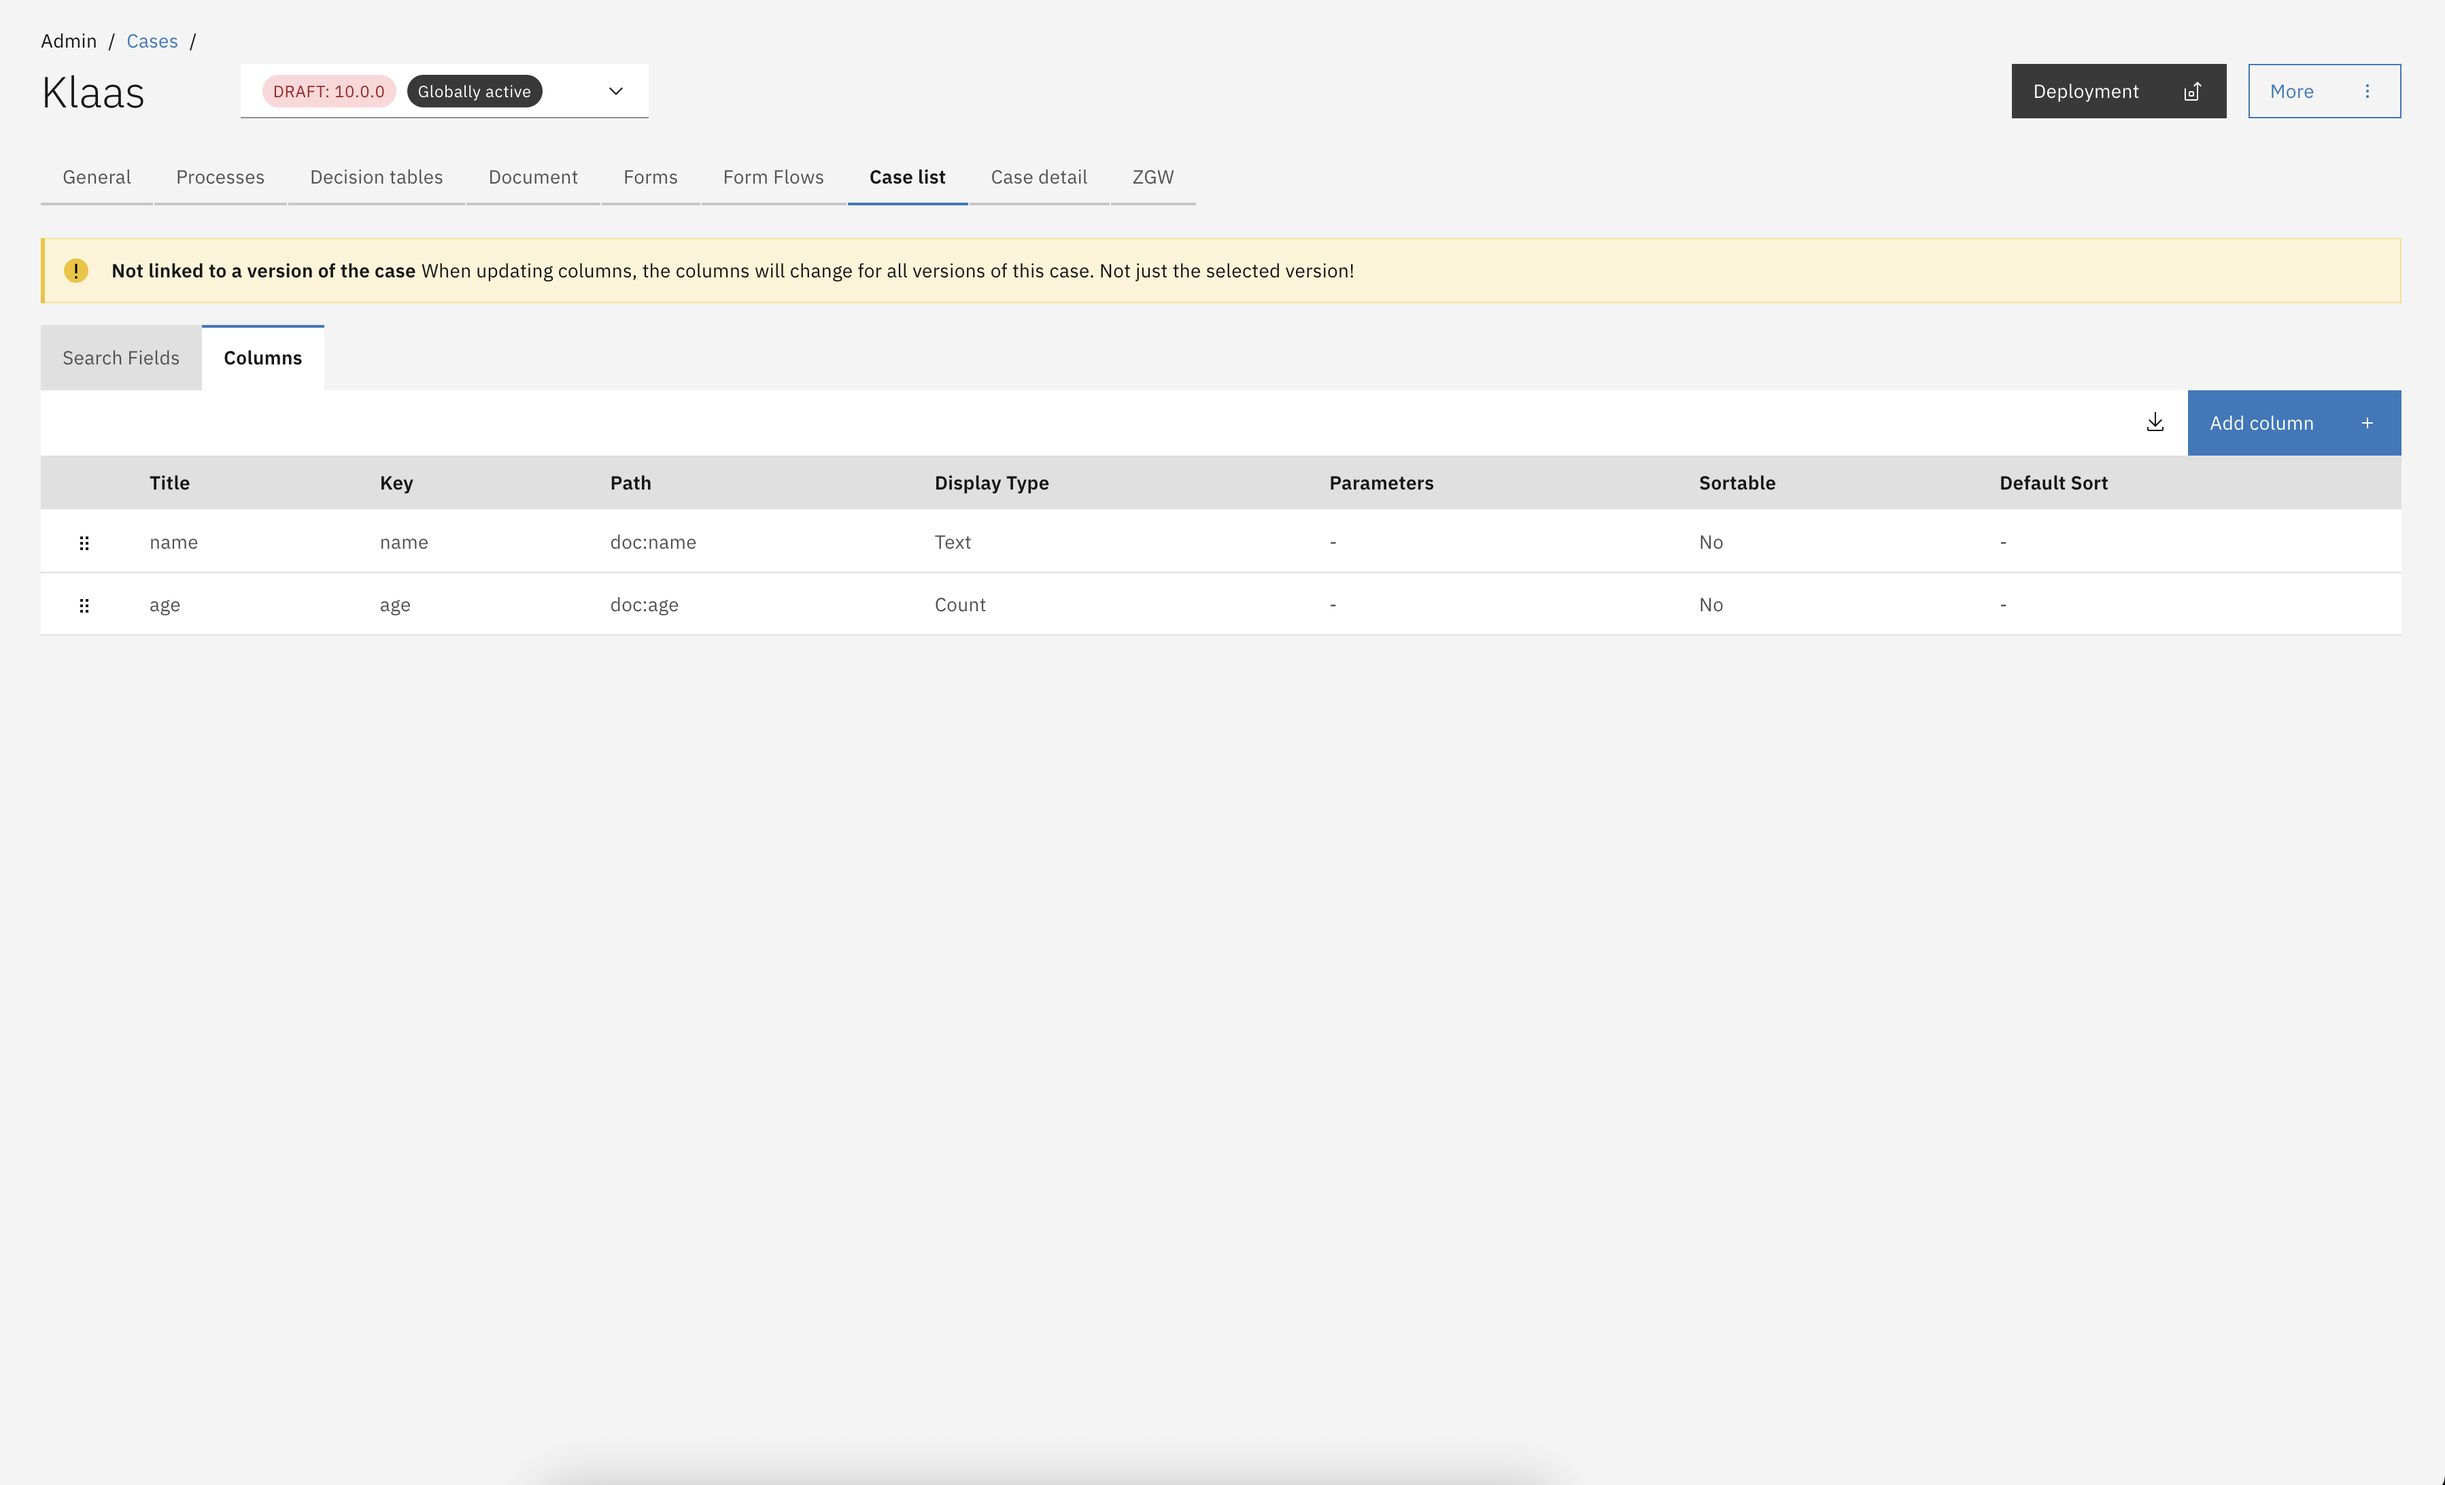
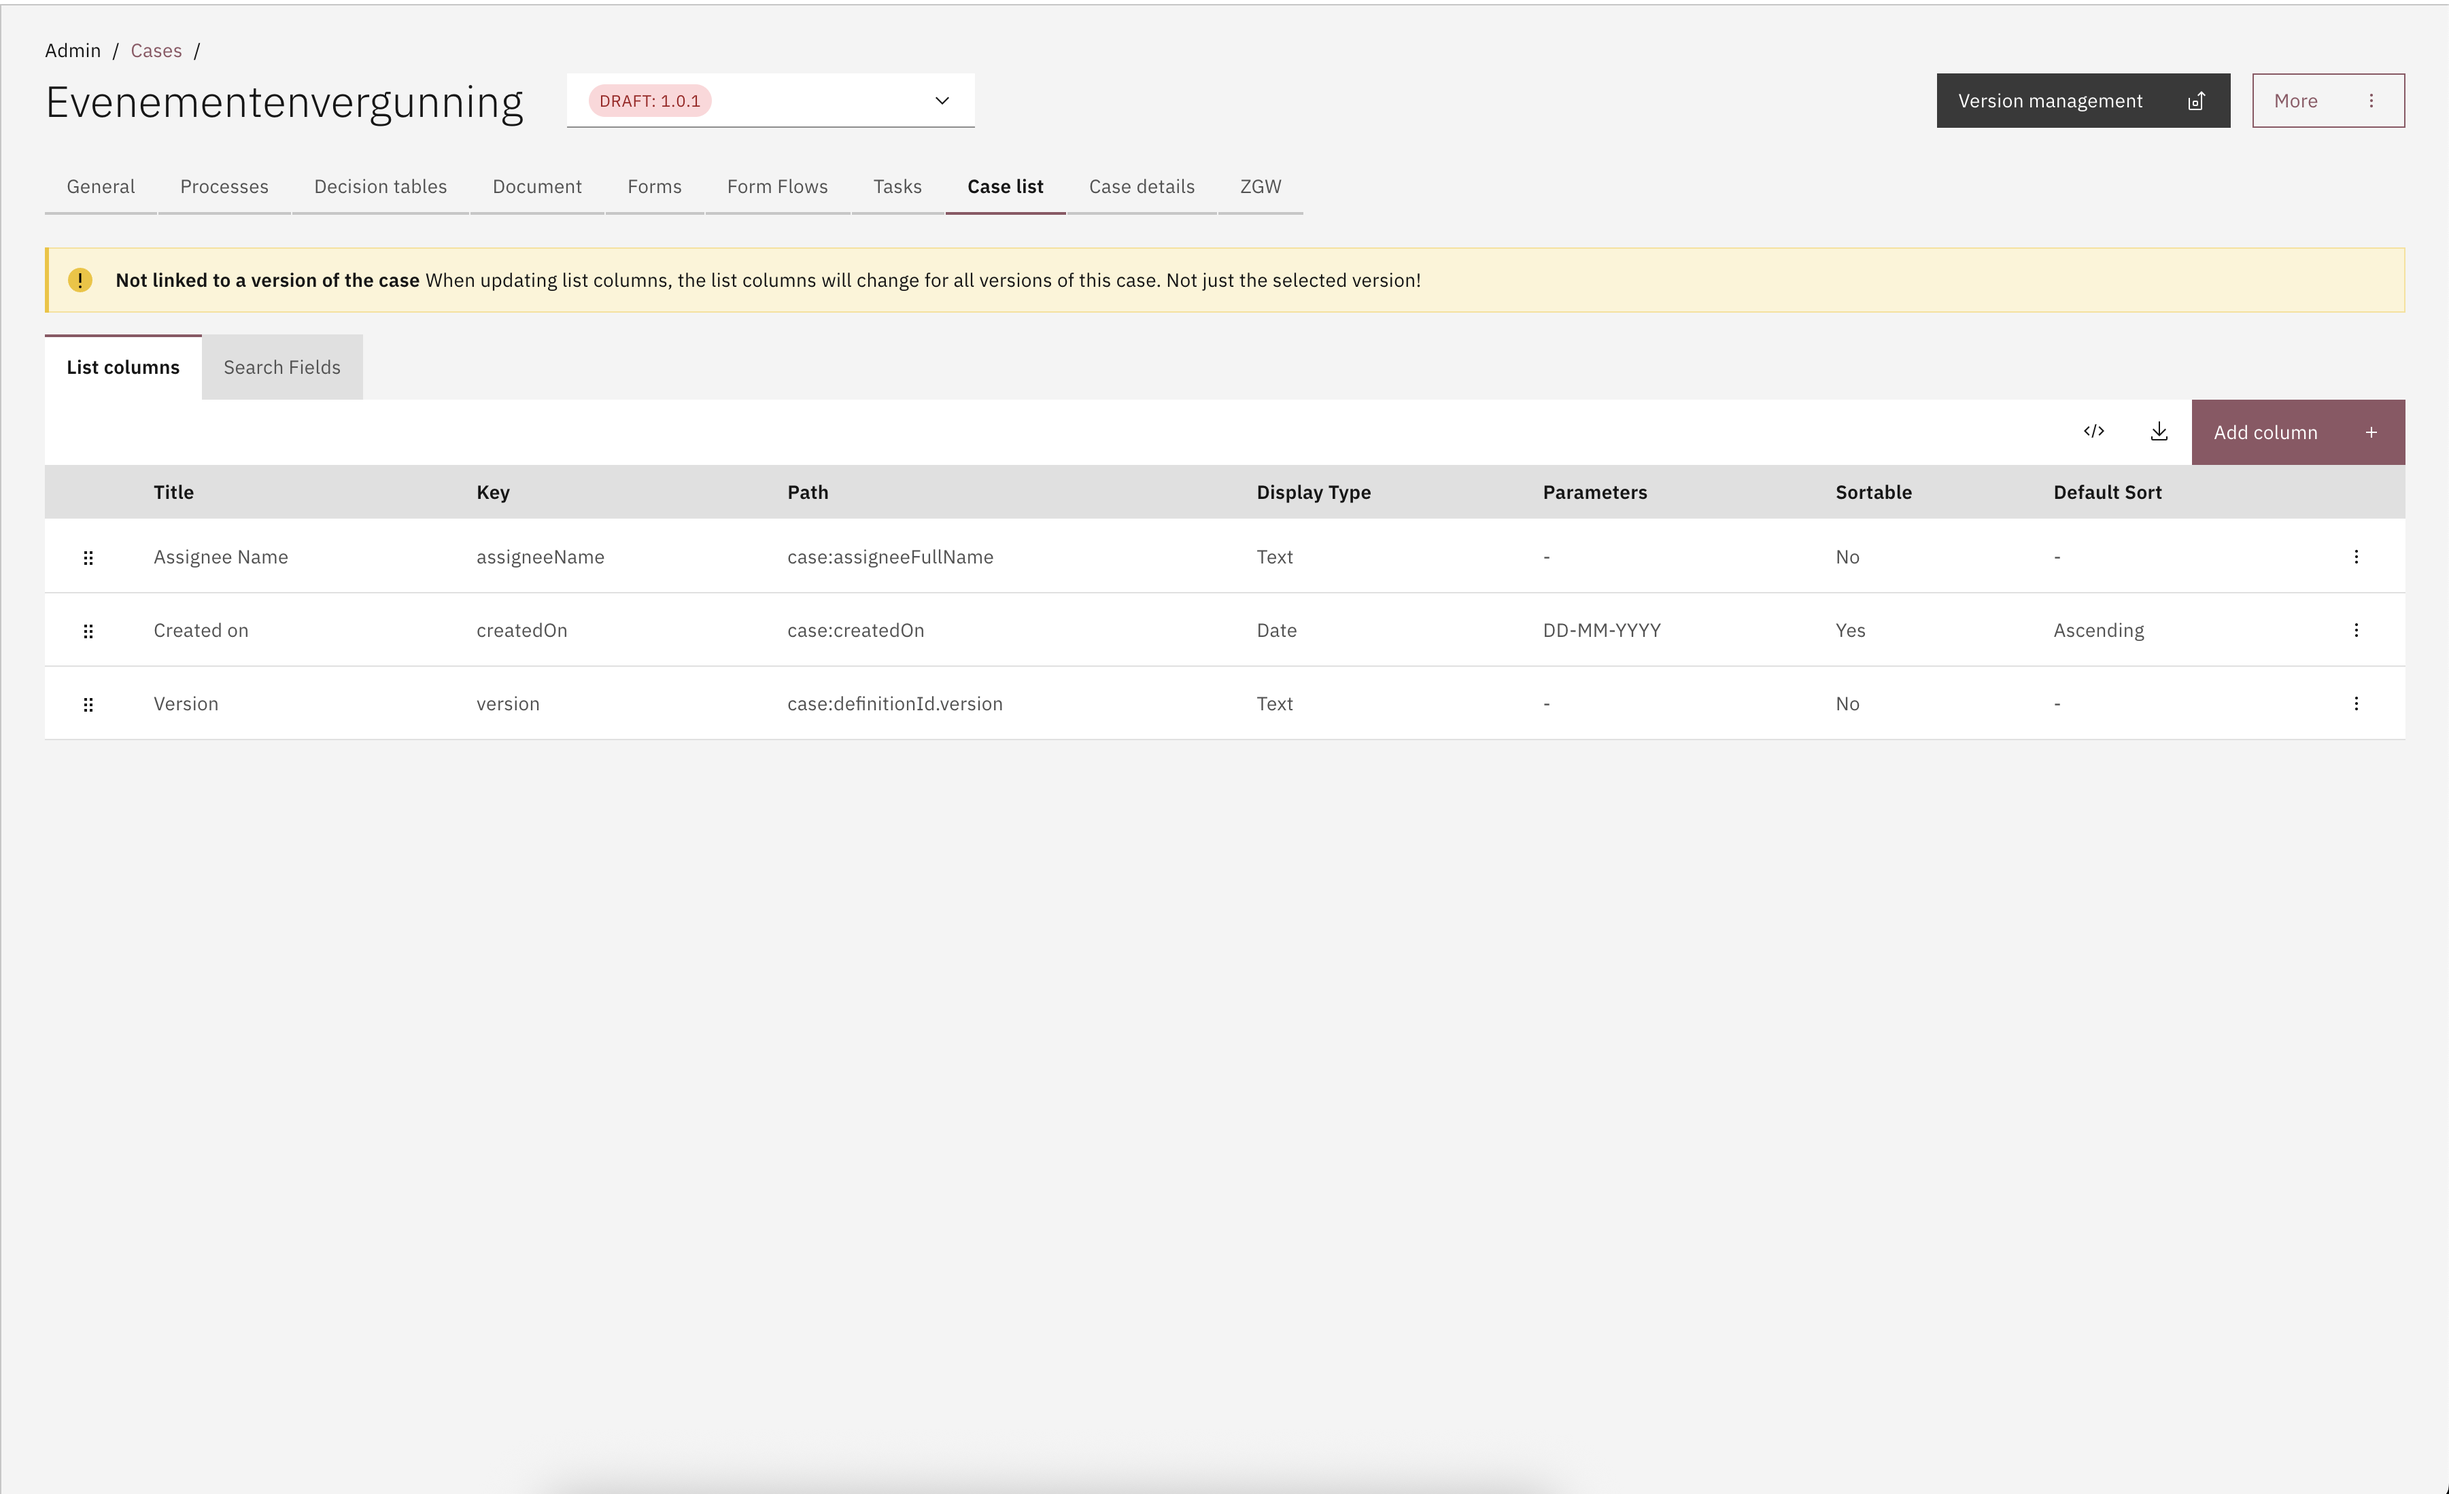
:wqqAdd documentation for the JSON editor

diff --git a/features/case/case-list/search-fields.md b/features/case/case-list/search-fields.md
@@ -8,30 +8,50 @@ For each case a set of search fields can be configured. These fields will be dis
 {% tab title="Via UI" %}
 An administrator is able to add, change, remove, reorder and download a file with all search fields.
 
-* Go to the `Admin` menu
-* Go to the `Cases` menu and select the case to configure search fields for
-* Select the `Case list` tab
-* Select the `Search fields` tab
+- Go to the `Admin` menu
+- Go to the `Cases` menu and select the case to configure search fields for
+- Select the `Case list` tab
+- Select the `Search fields` tab
 
 <figure><img src="../../../.gitbook/assets/case-list.png" alt=""><figcaption></figcaption></figure>
 
+Search fields can also be configured via a JSON editor:
+
+{% tabs %}
+{% tab title="Via JSON editor" %}
+
+- Go to the `Admin` menu
+- Go to the `Cases` menu
+- Select the `Case list` tab
+- Select the `Search fields` tab
+- Click on **The code icon**
+- Click on **Edit**
+- Configure a new search field, delete a search field or edit an existing search field
+- Click **Save**
+
+<figure><img src="../../../.gitbook/assets/case-list-search-fields-json-editor.png" alt=""><figcaption></figcaption></figure>
+
+<figure><img src="../../../.gitbook/assets/case-list-search-fields-json-editor-active.png" alt=""><figcaption></figcaption></figure>
+
+This allows for faster editing of search fields or exchanging different search field configurations throughout different environments.
+
 ### **Available actions**
 
-* **Create**\
+- **Create**\
   Because each case holds its own set of data, search fields can be configured per case. A button to create a new search field is available at the top of the displayed search field list. A modal for filling in the data will be presented when clicking on this button. It is necessary to fill in all the required data to enable the `submit` button. The key field is specific identification data, so if the key is not unique, you will not be able to save the search field.
 
 <figure><img src="../../../.gitbook/assets/add-search-field.png" alt=""><figcaption><p>Modal to configure search field</p></figcaption></figure>
 
-* **Edit**\
+- **Edit**\
   When clicking on an entry in the list of `search fields`, a modal opens with the fields pre-filled with the selected item's data. It is possible to edit all the fields, except for the key. When clicking `submit`, the field data is automatically updated in the list.
 
 <figure><img src="../../../.gitbook/assets/edit-search-field.png" alt=""><figcaption><p>Modal to configure search field - prefilled</p></figcaption></figure>
 
-* **Reorder**\
+- **Reorder**\
   At the far right next to the 3 dotted menu there are two arrow buttons for reordering the data. The line will be moved in the corresponding direction by clicking the up or down arrow button. When there is no possibility of moving the line, the reorder buttons will be disabled.
-* **Delete**\
+- **Delete**\
   At the far right of each search field in the list there is a menu under 3 dots. This menu contains the delete option. When deleting a confirmation is shown with the information that this action can't be undone.
-* **Download**\
+- **Download**\
   A download icon is available next to the Add search field button at the top of the list. A JSON formatted file with all the information in the list will be downloaded.
 
 <figure><img src="../../../.gitbook/assets/image (45).png" alt=""><figcaption></figcaption></figure>
@@ -49,6 +69,7 @@ The name of the configuration file must match have the extension `.case-search-f
 The content of the configuration file can look like this:&#x20;
 
 {% code title="*/resources/config/case/example-case/1.0.0/case/search-field/example-case.case-search-field.json" %}
+
 ```json
 {
   "searchFields": [
@@ -63,6 +84,7 @@ The content of the configuration file can look like this:&#x20;
   ]
 }
 ```
+
 {% endcode %}
 {% endtab %}
 {% endtabs %}
@@ -79,7 +101,7 @@ The **Title** field is not mandatory and if left blank a translation of the key 
 1. Show the title if available
 2. Get the translation for the key if available
 3. Display the key
-{% endhint %}
+   {% endhint %}
 
 {% hint style="info" %}
 **Example configuration for `doc:` and `case:` prefixes**\\
@@ -135,20 +157,22 @@ Access to the search fields can be configured through access control. More infor
 <summary>Permission to view all search fields of one specific case type</summary>
 
 {% code overflow="wrap" %}
+
 ```json
 {
-   "resourceType": "com.ritense.document.domain.impl.searchfield.SearchField",
-   "action": "view_list",
-   "conditions": [
-      {
-         "type": "field",
-         "field": "id.document_definition_name",
-         "operator": "==",
-         "value": "evenementenvergunning"
-      }
-   ]
+  "resourceType": "com.ritense.document.domain.impl.searchfield.SearchField",
+  "action": "view_list",
+  "conditions": [
+    {
+      "type": "field",
+      "field": "id.document_definition_name",
+      "operator": "==",
+      "value": "evenementenvergunning"
+    }
+  ]
 }
 ```
+
 {% endcode %}
 
 </details>
@@ -158,20 +182,22 @@ Access to the search fields can be configured through access control. More infor
 <summary>Permission to view one specific search field</summary>
 
 {% code overflow="wrap" %}
+
 ```json
 {
-   "resourceType": "com.ritense.document.domain.impl.searchfield.SearchField",
-   "action": "view_list",
-   "conditions": [
-      {
-         "type": "field",
-         "field": "key",
-         "operator": "==",
-         "value": "first-name"
-      }
-   ]
+  "resourceType": "com.ritense.document.domain.impl.searchfield.SearchField",
+  "action": "view_list",
+  "conditions": [
+    {
+      "type": "field",
+      "field": "key",
+      "operator": "==",
+      "value": "first-name"
+    }
+  ]
 }
 ```
+
 {% endcode %}
 
 </details>

diff --git a/features/dashboard/README.md b/features/dashboard/README.md
@@ -115,6 +115,25 @@ After creating a dashboard, widgets can be added to the dashboard.
 {% endtab %}
 {% endtabs %}
 
+Widgets can also be configured via a JSON editor:
+
+{% widgets %}
+{% widgets title="Via JSON editor" %}
+
+- Go to the `Admin` menu
+- Go to the `Dashboards` menu
+- Select a dashboard
+- Click on **The code icon**
+- Click on **Edit**
+- Configure a new widget, delete a widget or edit an existing widget
+- Click **Save**
+
+<figure><img src="../../.gitbook/assets/admin-widget-configuration-json-editor.png" alt=""><figcaption></figcaption></figure>
+
+<figure><img src="../../.gitbook/assets/admin-widget-configuration-json-editor-active.png" alt=""><figcaption></figcaption></figure>
+
+This allows for faster editing of widgets or exchanging different dashboard widgets configurations throughout different environments.
+
 ## Access control
 
 Access to dashboards can be configured through access control. More information about access control can be found [here](https://docs.valtimo.nl/features/access-control).

diff --git a/features/case/case-list/list.md b/features/case/case-list/list.md
@@ -60,6 +60,25 @@ The content of a list configuration file can look like this:
 {% endtab %}
 {% endtabs %}
 
+Case list columns can also be configured via a JSON editor:
+
+{% tabs %}
+{% tab title="Via JSON editor" %}
+* Go to the `Admin` menu
+* Go to the `Cases` menu
+* Select the `Case list` tab
+* Select the `Columns` tab
+* Click on **The code icon**
+* Click on **Edit**
+* Configure a new column, delete a column or edit an existing column
+* Click **Save**
+
+<figure><img src="../../../.gitbook/assets/case-list-columns-json-editor.png" alt=""><figcaption></figcaption></figure>
+
+<figure><img src="../../../.gitbook/assets/case-list-columns-json-editor-active.png" alt=""><figcaption></figcaption></figure>
+
+This allows for faster editing of columns or exchanging different column configurations throughout different environments.
+
 ## List field types
 
 Overview of available configuration fields and the corresponding field types.

diff --git a/release-notes/13.x.x/13.1.0/README.md b/release-notes/13.x.x/13.1.0/README.md
@@ -1,1 +1,11 @@
 # 13.1.0
+
+## New Features
+
+#### Case definition list columns and search fields
+
+List columns and search fields can now be configured via a JSON Editor under the Case definition details.
+
+#### Dashboards widget configuration
+
+Dashboard widget configurationscan now be edited via a JSON Editor under the dashboard details.
